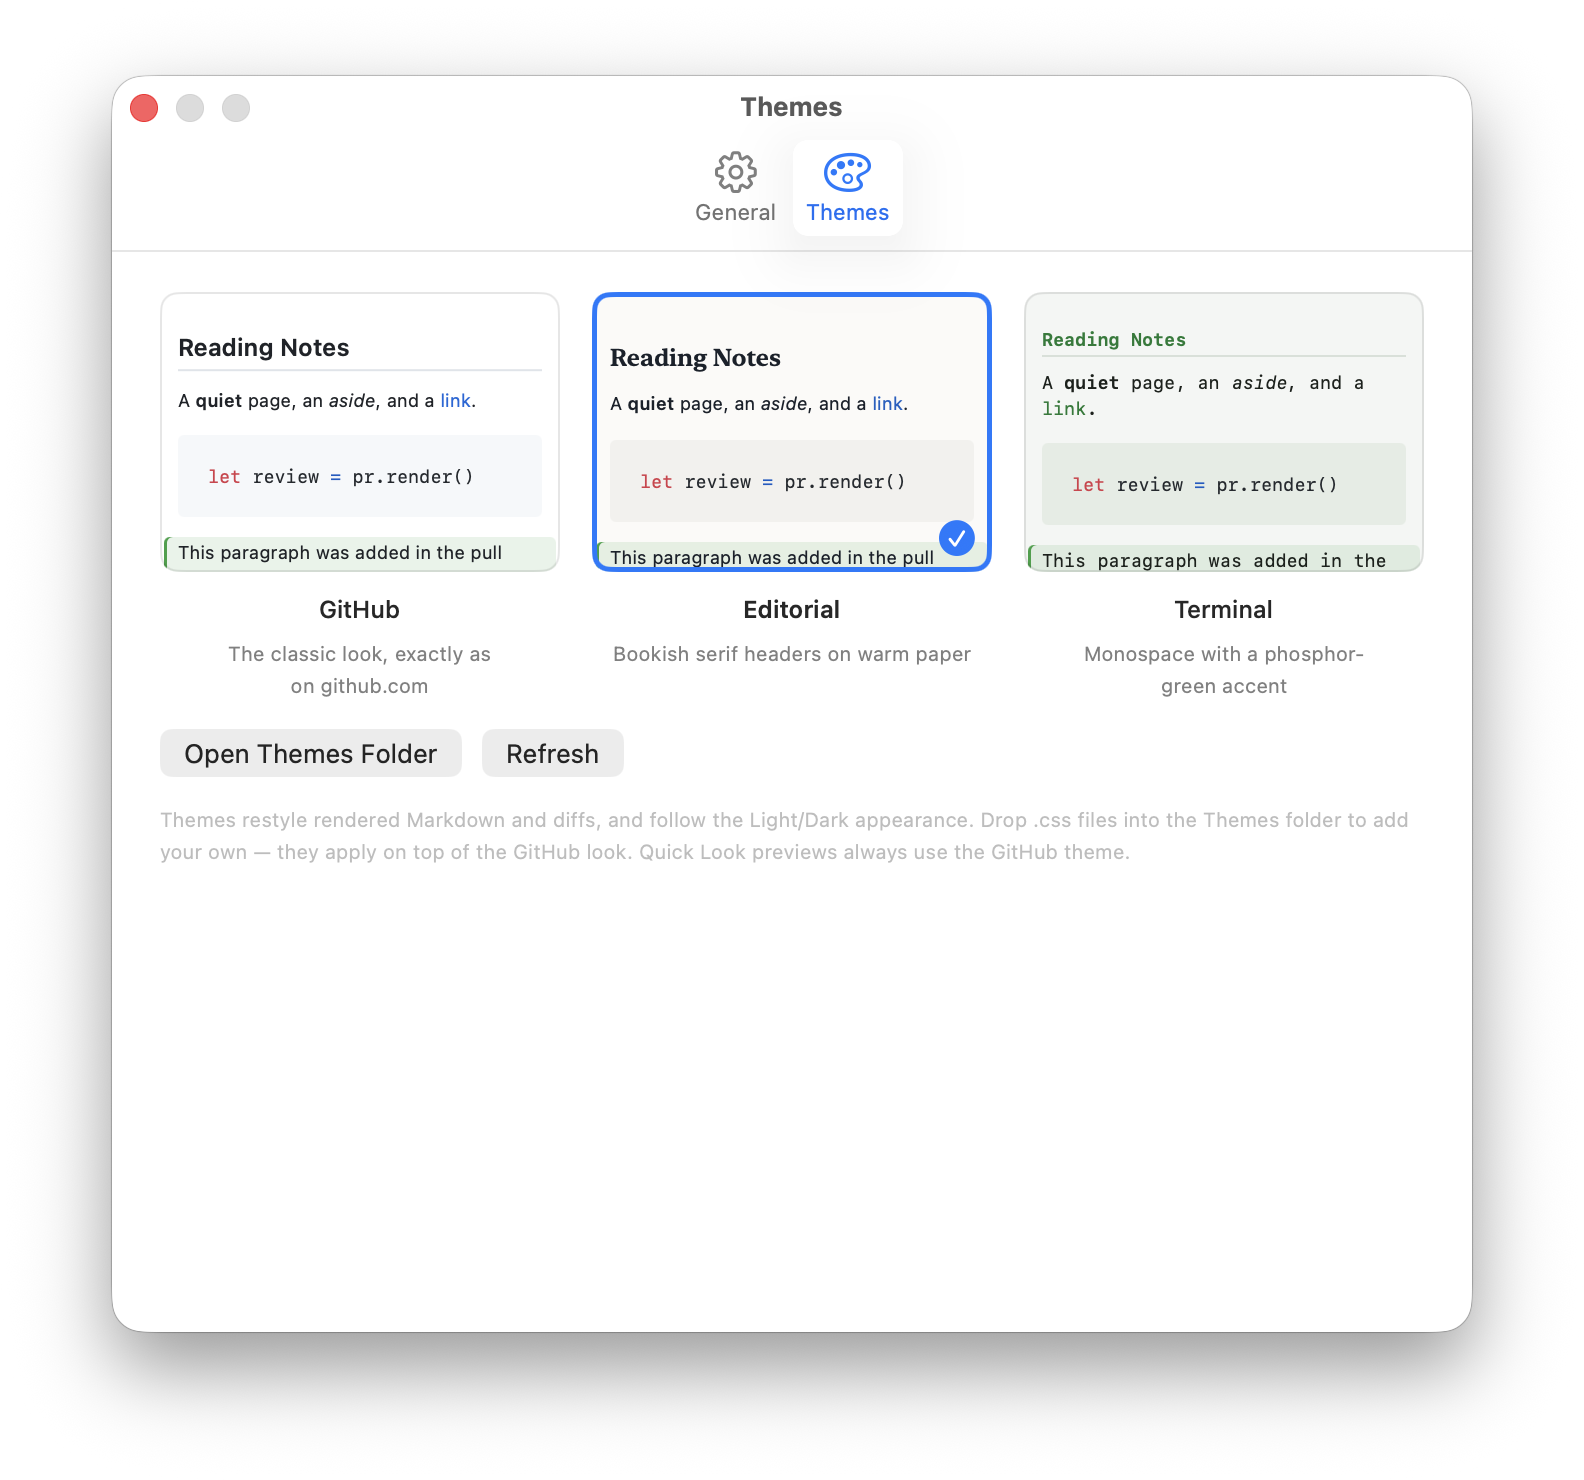
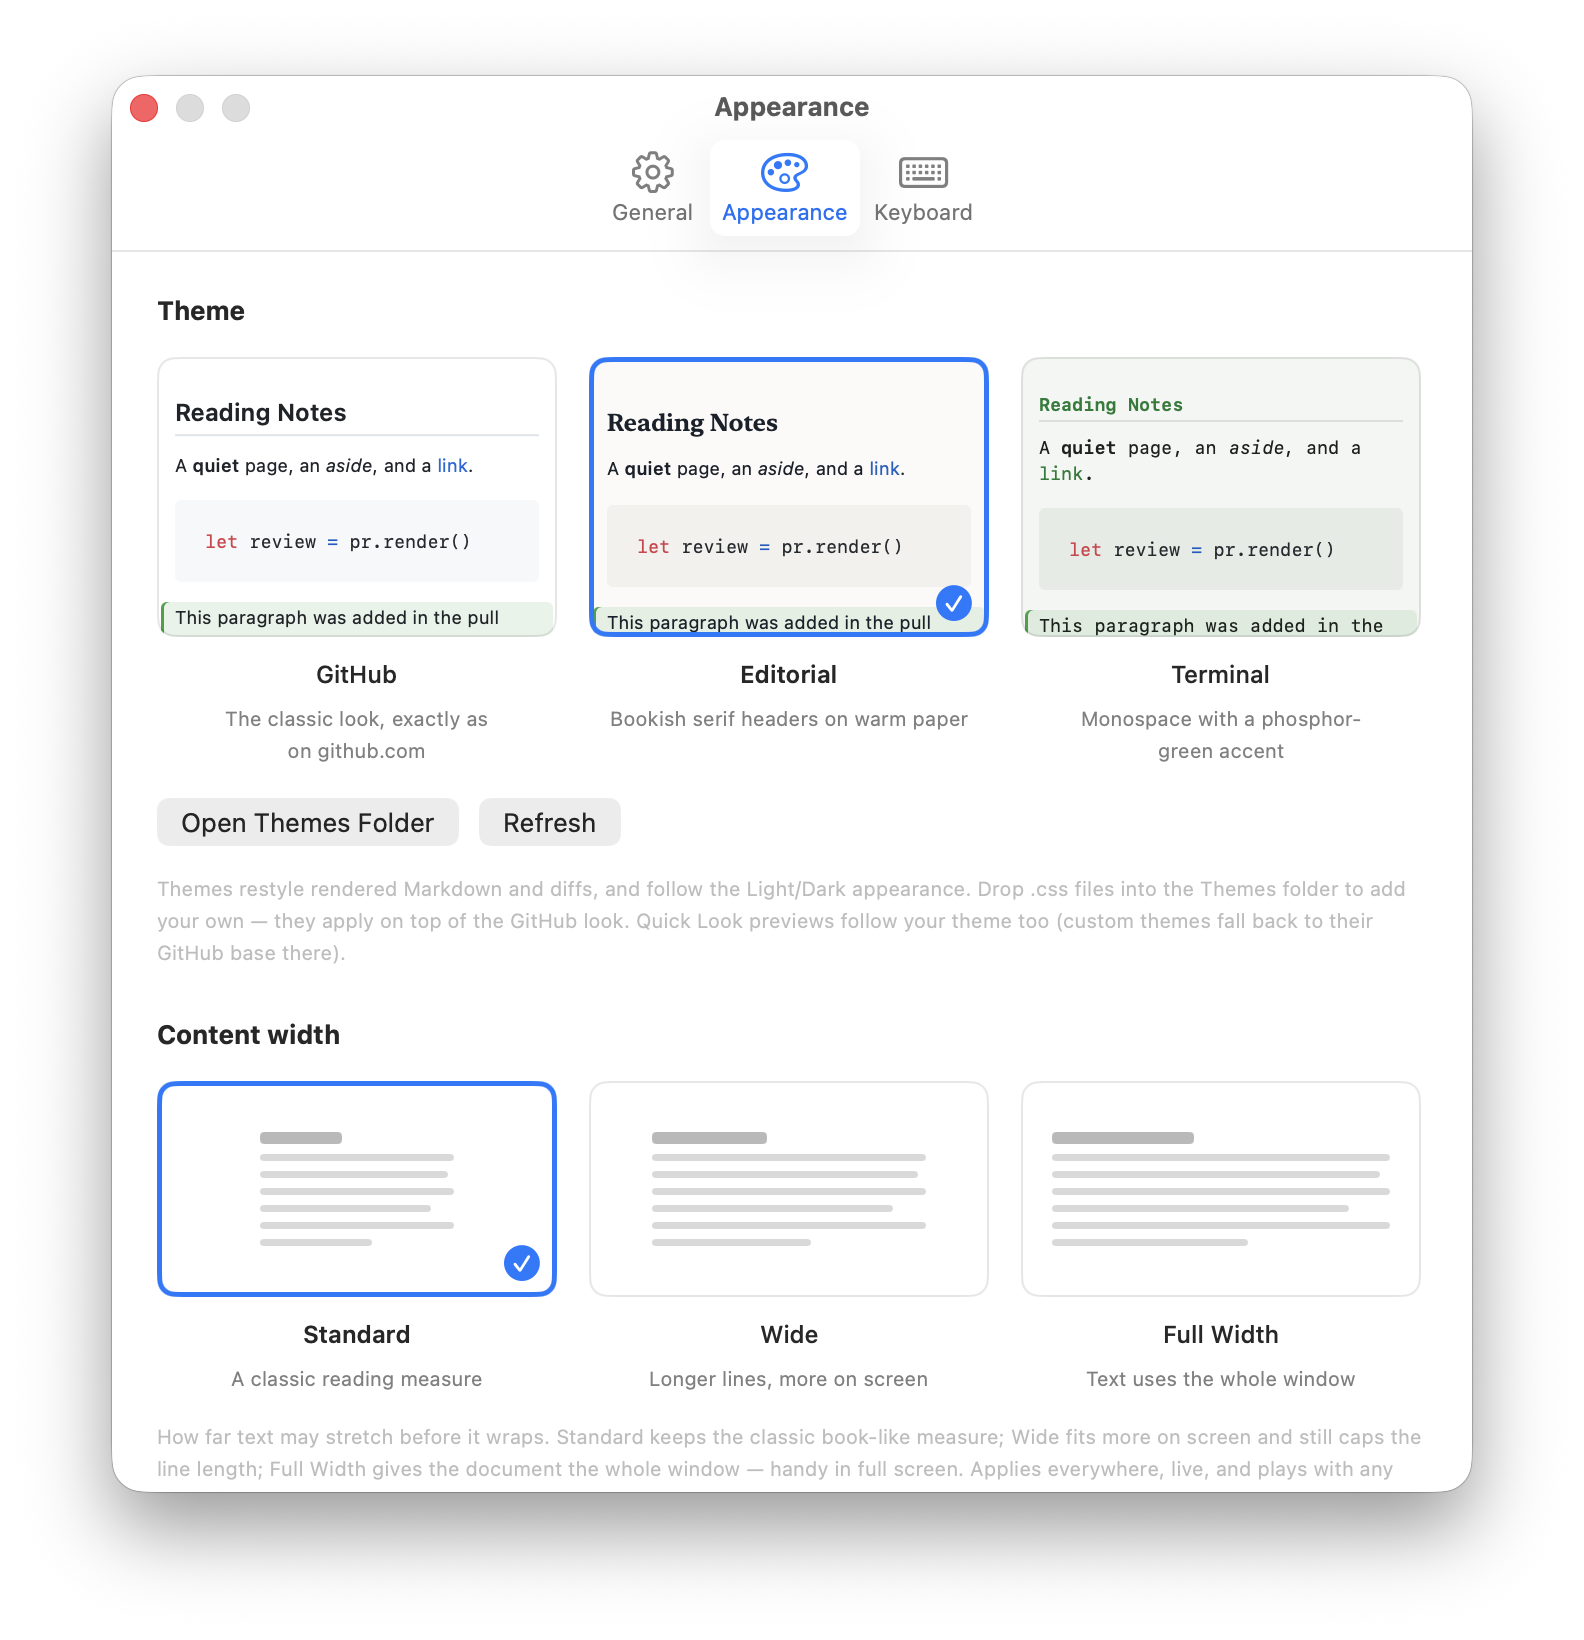
Site: all screenshots from the demo world
Every published shot now comes from the PM_DEMO fixture (fictional
meridian docs and authors) at the published pixel dimensions: hero
blame gutter, reading view (front matter, footnote, branch titlebar),
edit-mode detail crop, and the Settings shot — retaken on the renamed
Appearance tab, with copy updated to match.

diff --git a/site/index.html b/site/index.html
@@ -12,7 +12,7 @@
 <meta property="og:description" content="A native macOS app that renders local Markdown and reviews documentation-heavy GitHub pull requests as rendered diffs.">
 <meta property="og:type" content="website">
 <meta property="og:url" content="https://pullmark.app/">
-<meta property="og:image" content="https://pullmark.app/img/app-blame.png?v=2">
+<meta property="og:image" content="https://pullmark.app/img/app-blame.png?v=3">
 <style>
 /* ============ tokens ============ */
 :root {
@@ -497,9 +497,9 @@ footer .note { margin-left: auto; }
 
     <div class="hero-shot">
       <figure class="shot">
-        <img src="img/app-blame.png?v=2" width="1392" height="912"
-          alt="PullMark rendering its own README as a formatted document, with the blame gutter on: author avatars sit in the left margin, one per run of blocks last touched by the same commit">
-        <figcaption>PullMark reading its own README — formatted, with history in the margin: one avatar per run of blocks, each one a doorway to its commit.</figcaption>
+        <img src="img/app-blame.png?v=3" width="1392" height="912"
+          alt="PullMark rendering a project's documentation as a formatted page, with the blame gutter on: author avatars sit in the left margin, one per run of blocks last touched by the same commit">
+        <figcaption>A project doc, formatted — with history in the margin: one avatar per run of blocks, each one a doorway to its commit.</figcaption>
       </figure>
     </div>
   </div>
@@ -599,10 +599,10 @@ footer .note { margin-left: auto; }
       <code>[toc]</code>, and YAML front matter folded into a tidy metadata table.</p>
 
     <figure class="shot reading-shot">
-      <img src="img/app-doc.png?v=4" width="1052" height="784" loading="lazy"
-        alt="PullMark rendering a local Markdown file: the sidebar shows local files, pull requests, and a review-request inbox with unread counts and Markdown-file badges; the document displays a collapsed front-matter bar, formatted headings, inline code, footnote references, and nested ordered lists, with a word-count pill in the corner">
-      <figcaption>Front matter folds into a quiet bar, review requests wait quietly in the
-      sidebar, the titlebar knows your branch — and a words&nbsp;·&nbsp;minutes pill keeps
+      <img src="img/app-doc.png?v=5" width="1052" height="784" loading="lazy"
+        alt="PullMark rendering a local Markdown file from a docs repo: the sidebar lists local files and an open pull request; the document shows a collapsed front-matter bar, formatted headings, inline code, nested ordered lists, and a footnote reference; the titlebar shows the file's folder and git branch, with a word-count pill in the corner">
+      <figcaption>Front matter folds into a quiet bar, pull requests sit beside your local
+      files, the titlebar knows your branch — and a words&nbsp;·&nbsp;minutes pill keeps
       score.</figcaption>
     </figure>
 
@@ -662,15 +662,15 @@ footer .note { margin-left: auto; }
     Reading stays the default; the mode boundary is the save gesture.</p>
 
     <figure class="shot shot-narrow" style="max-width: 860px;">
-      <img src="img/app-edit.png" width="860" height="420" loading="lazy"
+      <img src="img/app-edit.png?v=2" width="860" height="420" loading="lazy"
         alt="A rendered document in edit mode: one paragraph revealed as raw Markdown source in place, surrounded by rendered content">
       <figcaption>Edit mode: the active block shows its source; everything else stays rendered.</figcaption>
     </figure>
 
     <figure class="shot shot-narrow">
-      <img src="img/app-themes.png?v=2" width="792" height="740" loading="lazy"
-        alt="PullMark's Settings window on the Themes tab: three live preview cards — GitHub, Editorial, and Terminal — each rendering the same sample document through the real pipeline, with Editorial selected, above buttons for opening the custom Themes folder">
-      <figcaption>Settings → Themes: three live previews, rendered by the real pipeline — click a card to switch.</figcaption>
+      <img src="img/app-themes.png?v=3" width="792" height="820" loading="lazy"
+        alt="PullMark's Settings window on the Appearance tab: three live theme preview cards — GitHub, Editorial, and Terminal — each rendering the same sample document through the real pipeline, with Editorial selected, above buttons for opening the custom Themes folder">
+      <figcaption>Settings → Appearance: three live theme previews, rendered by the real pipeline — click a card to switch.</figcaption>
     </figure>
   </div>
 </section>
